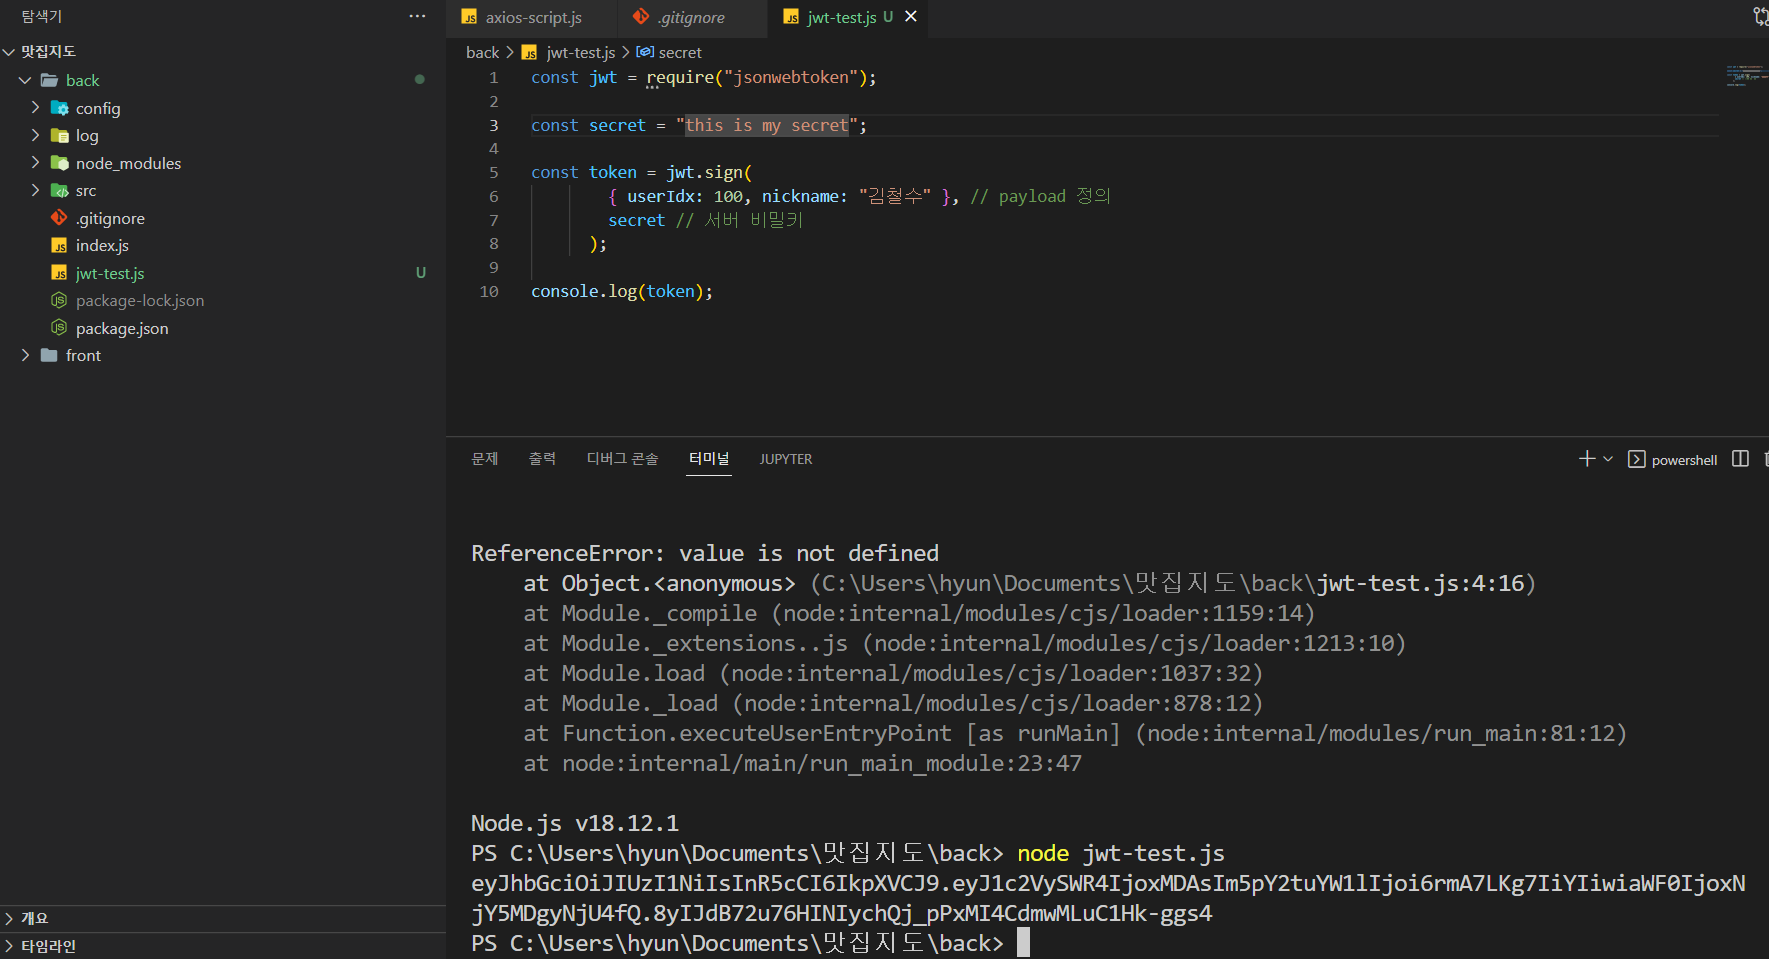
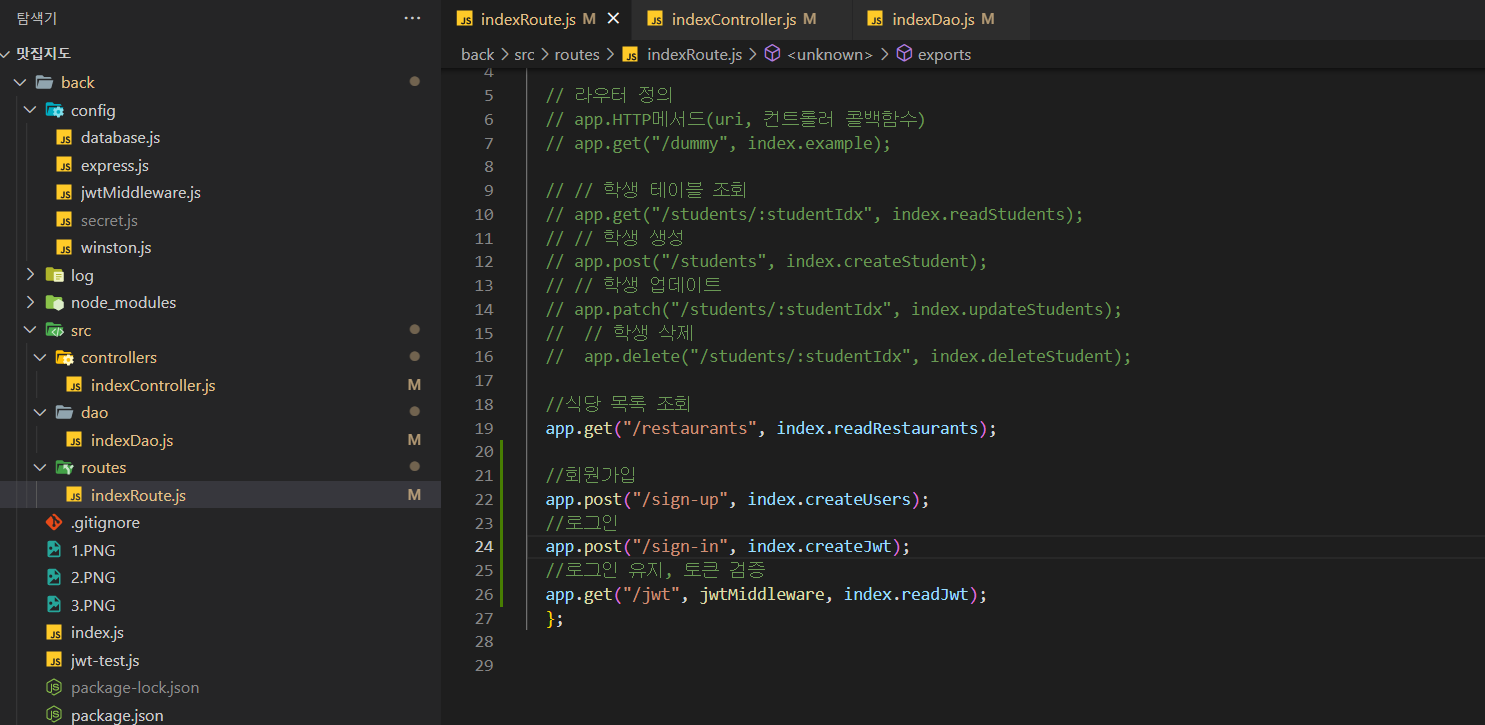
63강 회원가입 API 구현 공부

diff --git a/back/src/controllers/indexController.js b/back/src/controllers/indexController.js
@@ -2,9 +2,145 @@ const { pool } = require("../../config/database");
 const { logger } = require("../../config/winston");
 const jwt = require("jsonwebtoken");
 const secret = require("../../config/secret");
-
 const indexDao = require("../dao/indexDao");
 
+// 회원가입
+exports.createUsers = async function (req, res) {
+  const { userID, password, nickname } = req.body;
+
+  // 1. 유저 데이터 검증
+  const userIDRegExp = /^[a-z]+[a-z0-9]{5,19}$/; // 아이디 정규식 영문자로 시작하는 영문자 또는 숫자 6-20
+  const passwordRegExp = /^(?=.*\d)(?=.*[a-zA-Z])[0-9a-zA-Z]{8,16}$/; // 비밀번호 정규식 8-16 문자, 숫자 조합
+  const nicknameRegExp = /^[가-힣|a-z|A-Z|0-9|]{2,10}$/; // 닉네임 정규식 2-10 한글, 숫자 또는 영문
+
+  if (!userIDRegExp.test(userID)) {
+    return res.send({
+      isSuccess: false,
+      code: 400, // 요청 실패시 400번대 코드
+      message: "아이디 정규식 영문자로 시작하는 영문자 또는 숫자 6-20",
+    });
+  }
+
+  if (!passwordRegExp.test(password)) {
+    return res.send({
+      isSuccess: false,
+      code: 400, // 요청 실패시 400번대 코드
+      message: "비밀번호 정규식 8-16 문자, 숫자 조합",
+    });
+  }
+
+  if (!nicknameRegExp.test(nickname)) {
+    return res.send({
+      isSuccess: false,
+      code: 400, // 요청 실패시 400번대 코드
+      message: "닉네임 정규식 2-10 한글, 숫자 또는 영문",
+    });
+  }
+
+  try {
+    const connection = await pool.getConnection(async (conn) => conn);
+    try {
+      // 아이디 중복 검사가 필요. 직접 구현해보기.
+
+      // 2. DB 입력
+      const [rows] = await indexDao.insertUsers(
+        connection,
+        userID,
+        password,
+        nickname
+      );
+
+        console.log(rows);
+
+      // 입력된 유저 인덱스
+      const userIdx = rows.insertId;
+
+      // 3. JWT 발급
+      const token = jwt.sign(
+        { userIdx: userIdx, nickname: nickname }, // payload 정의
+        secret.jwtsecret // 서버 비밀키
+      );
+
+      return res.send({
+        result: { jwt: token },
+        isSuccess: true,
+        code: 200, // 요청 실패시 400번대 코드
+        message: "회원가입 성공",
+      });
+    } catch (err) {
+      logger.error(`createUsers Query error\n: ${JSON.stringify(err)}`);
+      return false;
+    } finally {
+      connection.release();
+    }
+  } catch (err) {
+    logger.error(`createUsers DB Connection error\n: ${JSON.stringify(err)}`);
+    return false;
+  }
+};
+
+// 로그인
+exports.createJwt = async function (req, res) {
+  const { userID, password } = req.body;
+
+  if (!userID || !password) {
+    return res.send({
+      isSuccess: false,
+      code: 400, // 요청 실패시 400번대 코드
+      message: "회원정보를 입력해주세요.",
+    });
+  }
+
+  try {
+    const connection = await pool.getConnection(async (conn) => conn);
+    try {
+      // 2. DB 회원 검증
+      const [rows] = await indexDao.isValidUsers(connection, userID, password);
+
+      if (rows.length < 1) {
+        return res.send({
+          isSuccess: false,
+          code: 410, // 요청 실패시 400번대 코드
+          message: "회원정보가 존재하지 않습니다.",
+        });
+      }
+
+      const { userIdx, nickname } = rows[0];
+
+      // 3. JWT 발급
+      const token = jwt.sign(
+        { userIdx: userIdx, nickname: nickname }, // payload 정의
+        secret.jwtsecret // 서버 비밀키
+      );
+
+      return res.send({
+        result: { jwt: token },
+        isSuccess: true,
+        code: 200, // 요청 실패시 400번대 코드
+        message: "로그인 성공",
+      });
+    } catch (err) {
+      logger.error(`createJwt Query error\n: ${JSON.stringify(err)}`);
+      return false;
+    } finally {
+      connection.release();
+    }
+  } catch (err) {
+    logger.error(`createJwt DB Connection error\n: ${JSON.stringify(err)}`);
+    return false;
+  }
+};
+
+// 로그인 유지, 토큰 검증
+exports.readJwt = async function (req, res) {
+  const { userIdx, nickname } = req.verifiedToken;
+
+  return res.send({
+    result: { userIdx: userIdx, nickname: nickname },
+    code: 200, // 요청 실패시 400번대 코드
+    message: "유효한 토큰입니다.",
+  });
+};
 
 // 식당 조회
 exports.readRestaurants = async function (req, res) {

diff --git a/back/src/dao/indexDao.js b/back/src/dao/indexDao.js
@@ -1,5 +1,26 @@
 const { pool } = require("../../config/database");
 
+// 회원가입
+exports.insertUsers = async function (connection, userID, password, nickname) {
+  const Query = `insert into Users(userID, password, nickname) values (?,?,?);`;
+  const Params = [userID, password, nickname];
+
+  const rows = await connection.query(Query, Params);
+
+  return rows;
+};
+
+// 로그인 (회원검증)
+exports.isValidUsers = async function (connection, userID, password) {
+  const Query = `SELECT userIdx, nickname FROM Users where userID = ? and password = ? and status = 'A';`;
+  const Params = [userID, password];
+
+  const rows = await connection.query(Query, Params);
+
+  return rows;
+};
+
+
 exports.selectRestaurants = async function (connection,category) {
   const selectAllRestaurantsQuery = `select title, address, category, videoUrl 
   from Restaurants where status = 'A';`;

diff --git a/back/src/routes/indexRoute.js b/back/src/routes/indexRoute.js
@@ -17,5 +17,12 @@ module.exports = function (app) {
 
   //식당 목록 조회
   app.get("/restaurants", index.readRestaurants);
+
+  //회원가입
+  app.post("/sign-up", index.createUsers);
+  //로그인
+  app.post("/sign-in", index.createJwt);
+  //로그인 유지, 토큰 검증
+  app.get("/jwt", jwtMiddleware, index.readJwt);
   };
 
